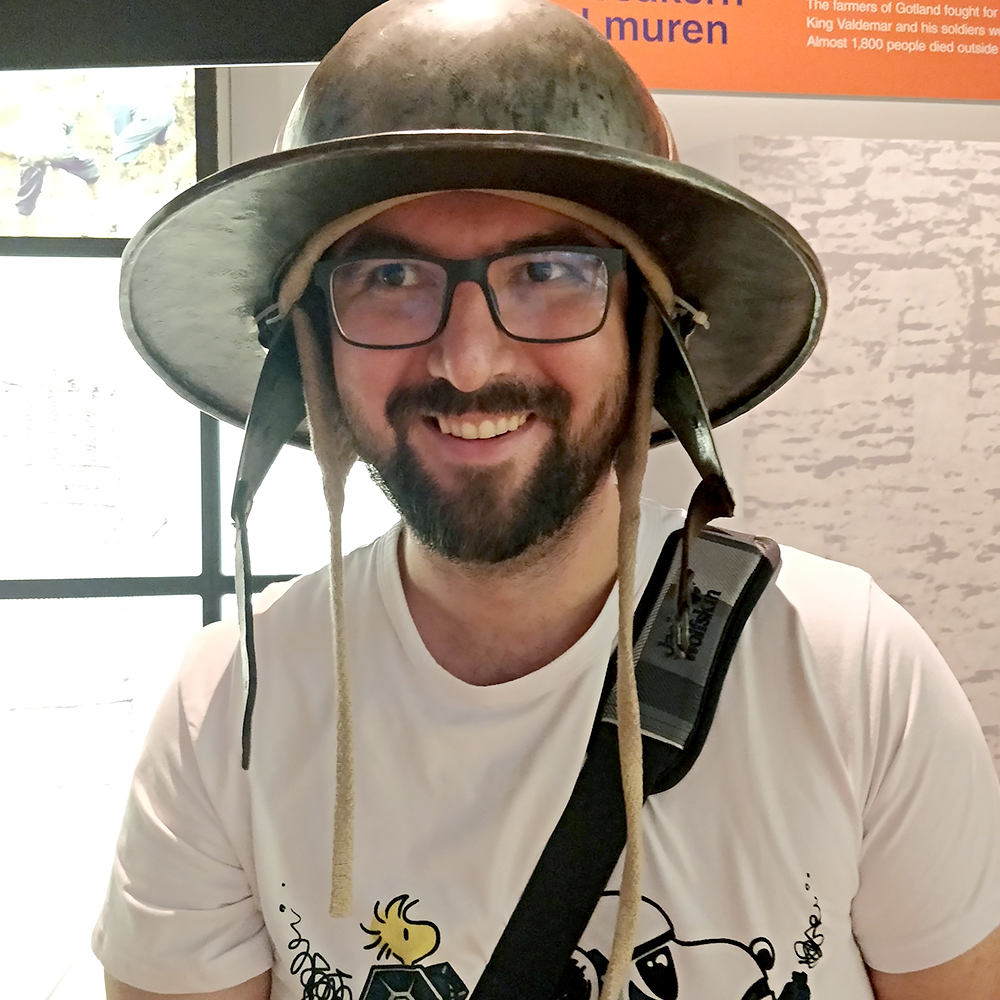
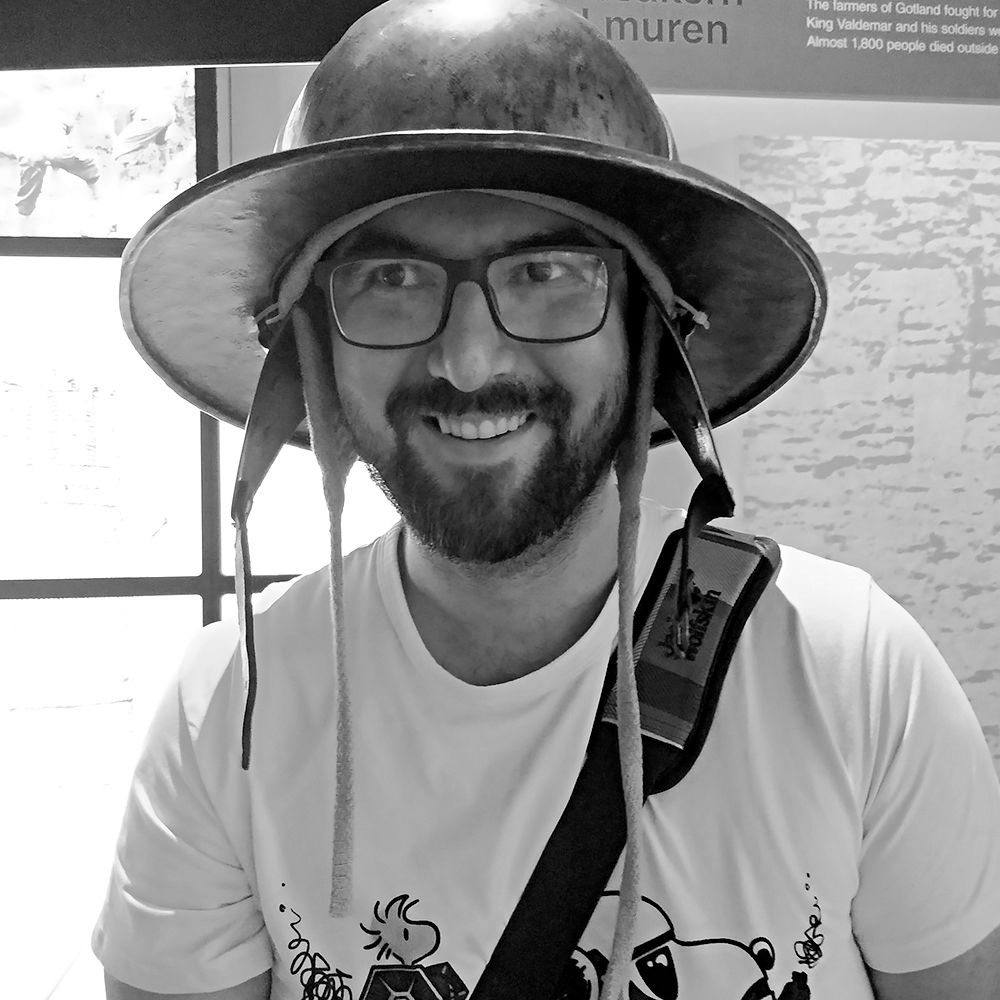
speakers - B&W photos; new text

diff --git a/Build/speakers.html b/Build/speakers.html
@@ -86,11 +86,9 @@
               <div class="col col--6-of-12">
                 <div class="bio">
                   <h3>Dimitar Delev</h3>
-                  <p>A somewhat experienced software developer specialized in JavaScript with a passion for functional programming and avid fan of the latest EcmaScript standards and React and a love for learning new (and old) exciting things.</p>
-                  <p>I aim to help and develop the community through lectures and tech talks. To achieve this, I have participated in local community events such as Beer&Code, and held courses in Brainster and within the confines of my current employer Melon Tech.</p>
-                  <p>In addition to this I am a part of the organization and conduction of a local meet up group called BeerJS Skopje, which is tied to the global organization that promotes local meetups of JavaScript developers.</p>
-                  <p>I also like to spend time on tabletop roleplaying games, board games, the guitar, biking, painting, drawing as well as cooking. I am also a painter and collector of miniatures in my spare time.</p>
-                  <p>@delevarius on Twitter, Instagram and Github</p>
+                  <p>Dimitar is a seasoned software developer specialized in JavaScript with a passion for functional programming, an avid fan of the latest ECMAScript standards and React.</p>
+                  <p>He contributes to the development of the developer’s community through lectures and tech talks. He’s been part of local community events such as Beer&Code. Dimitar held courses in Brainster and within the confines of his current employer Melon AD.</p>
+                  <p>He also helps with the organization and conduction of a local meet up group called BeerJS Skopje - tied to the global organization that promotes local meetups of JavaScript developers.</p>
                 </div>
               </div>
             </div>
@@ -103,8 +101,8 @@
               <div class="col col--6-of-12">
                 <div class="bio">
                   <h3>Stojan Gancev</h3>
-                  <p>Experienced in leading distributed teams, working with startups, delivering innovative products by adapting new technologies and concepts. Thinker, hardworking, goal-oriented, with a clear and concise vision of future.</p>
-                  <p>Specialties: Problem Solving, Optimization, Product Development, C++, Node.js, Protocols, Machine learning, Computer Vision, Sensor networks.</p>
+                  <p>Stojan is experienced in leading distributed teams, working with startups, delivering innovative products by adopting new technologies and concepts. Thinker, hardworking, goal-oriented, with a clear and concise vision of the future.</p>
+                  <p>His specialties include problem-solving, optimization, product development, C++, Node.js, protocols, machine learning, computer vision, and sensor networks.</p>
                 </div>
               </div>
               <div class="col col--6-of-12 hidesmall">
@@ -120,9 +118,9 @@
               <div class="col col--6-of-12">
                 <div class="bio">
                   <h3>Stefan Janev</h3>
-                  <p>Stefan Janev is working as an Android developer at Melon. He is Embedded Systems enthusiast with more than 8 years of experience in designing embedded systems and mobile services for diverse technology domains for leading companies in mobile technology. For the past two years, Stefan’s focus has been mainly on Android application development, mostly connected to IoT ecosystems.
-During his engagement in design and development of mobile application, he has been focused on creating sports entertainment application that involved bluetooth devices and required battery optimized application with clean code architecture.
-</p>
+                  <p>Stefan has more than 8 years of experience in designing embedded systems and mobile services for diverse technology domains for leading companies in mobile technology.</p>
+                  <p>For the past two years, Stefan’s focus has been mainly on Android application development, mostly connected to IoT ecosystems.</p>
+                  <p>During his engagement in design and development of mobile applications, he has been focused on creating sports entertainment applications that involved Bluetooth devices and required battery optimized application with clean code architecture.</p>
                 </div>
               </div>
             </div>
@@ -135,10 +133,8 @@ During his engagement in design and development of mobile application, he has be
               <div class="col col--6-of-12">
                 <div class="bio">
                   <h3>Bojan Bozinovski</h3>
-                  <p>Experienced C#, JavaScript developer and technical lead. </p>
-                  <p>Worked on web, mobile and desktop solutions.</p>
-                  <p>Likes React , .NET, electron, cross-platform technologies.</p>
-                  <p>Specialty web, 2D, 3D rich graphics and performance.</p>
+                  <p>Bojan is an experienced C#, JavaScript developer who also has taken the position of a technical lead. His work includes the development of web, mobile and desktop solutions. Bojan’s aspirations are focused on React, .NET, electron and cross-platform technologies.</p>
+                  <p>His specialties are web, 2D, 3D rich graphics and performance.</p>
                 </div>
               </div>
               <div class="col col--6-of-12 hidesmall">

diff --git a/partials/_speakers.html b/partials/_speakers.html
@@ -11,11 +11,9 @@
               <div class="col col--6-of-12">
                 <div class="bio">
                   <h3>Dimitar Delev</h3>
-                  <p>A somewhat experienced software developer specialized in JavaScript with a passion for functional programming and avid fan of the latest EcmaScript standards and React and a love for learning new (and old) exciting things.</p>
-                  <p>I aim to help and develop the community through lectures and tech talks. To achieve this, I have participated in local community events such as Beer&Code, and held courses in Brainster and within the confines of my current employer Melon Tech.</p>
-                  <p>In addition to this I am a part of the organization and conduction of a local meet up group called BeerJS Skopje, which is tied to the global organization that promotes local meetups of JavaScript developers.</p>
-                  <p>I also like to spend time on tabletop roleplaying games, board games, the guitar, biking, painting, drawing as well as cooking. I am also a painter and collector of miniatures in my spare time.</p>
-                  <p>@delevarius on Twitter, Instagram and Github</p>
+                  <p>Dimitar is a seasoned software developer specialized in JavaScript with a passion for functional programming, an avid fan of the latest ECMAScript standards and React.</p>
+                  <p>He contributes to the development of the developer’s community through lectures and tech talks. He’s been part of local community events such as Beer&Code. Dimitar held courses in Brainster and within the confines of his current employer Melon AD.</p>
+                  <p>He also helps with the organization and conduction of a local meet up group called BeerJS Skopje - tied to the global organization that promotes local meetups of JavaScript developers.</p>
                 </div>
               </div>
             </div>
@@ -28,8 +26,8 @@
               <div class="col col--6-of-12">
                 <div class="bio">
                   <h3>Stojan Gancev</h3>
-                  <p>Experienced in leading distributed teams, working with startups, delivering innovative products by adapting new technologies and concepts. Thinker, hardworking, goal-oriented, with a clear and concise vision of future.</p>
-                  <p>Specialties: Problem Solving, Optimization, Product Development, C++, Node.js, Protocols, Machine learning, Computer Vision, Sensor networks.</p>
+                  <p>Stojan is experienced in leading distributed teams, working with startups, delivering innovative products by adopting new technologies and concepts. Thinker, hardworking, goal-oriented, with a clear and concise vision of the future.</p>
+                  <p>His specialties include problem-solving, optimization, product development, C++, Node.js, protocols, machine learning, computer vision, and sensor networks.</p>
                 </div>
               </div>
               <div class="col col--6-of-12 hidesmall">
@@ -45,9 +43,9 @@
               <div class="col col--6-of-12">
                 <div class="bio">
                   <h3>Stefan Janev</h3>
-                  <p>Stefan Janev is working as an Android developer at Melon. He is Embedded Systems enthusiast with more than 8 years of experience in designing embedded systems and mobile services for diverse technology domains for leading companies in mobile technology. For the past two years, Stefan’s focus has been mainly on Android application development, mostly connected to IoT ecosystems.
-During his engagement in design and development of mobile application, he has been focused on creating sports entertainment application that involved bluetooth devices and required battery optimized application with clean code architecture.
-</p>
+                  <p>Stefan has more than 8 years of experience in designing embedded systems and mobile services for diverse technology domains for leading companies in mobile technology.</p>
+                  <p>For the past two years, Stefan’s focus has been mainly on Android application development, mostly connected to IoT ecosystems.</p>
+                  <p>During his engagement in design and development of mobile applications, he has been focused on creating sports entertainment applications that involved Bluetooth devices and required battery optimized application with clean code architecture.</p>
                 </div>
               </div>
             </div>
@@ -60,10 +58,8 @@ During his engagement in design and development of mobile application, he has be
               <div class="col col--6-of-12">
                 <div class="bio">
                   <h3>Bojan Bozinovski</h3>
-                  <p>Experienced C#, JavaScript developer and technical lead. </p>
-                  <p>Worked on web, mobile and desktop solutions.</p>
-                  <p>Likes React , .NET, electron, cross-platform technologies.</p>
-                  <p>Specialty web, 2D, 3D rich graphics and performance.</p>
+                  <p>Bojan is an experienced C#, JavaScript developer who also has taken the position of a technical lead. His work includes the development of web, mobile and desktop solutions. Bojan’s aspirations are focused on React, .NET, electron and cross-platform technologies.</p>
+                  <p>His specialties are web, 2D, 3D rich graphics and performance.</p>
                 </div>
               </div>
               <div class="col col--6-of-12 hidesmall">
